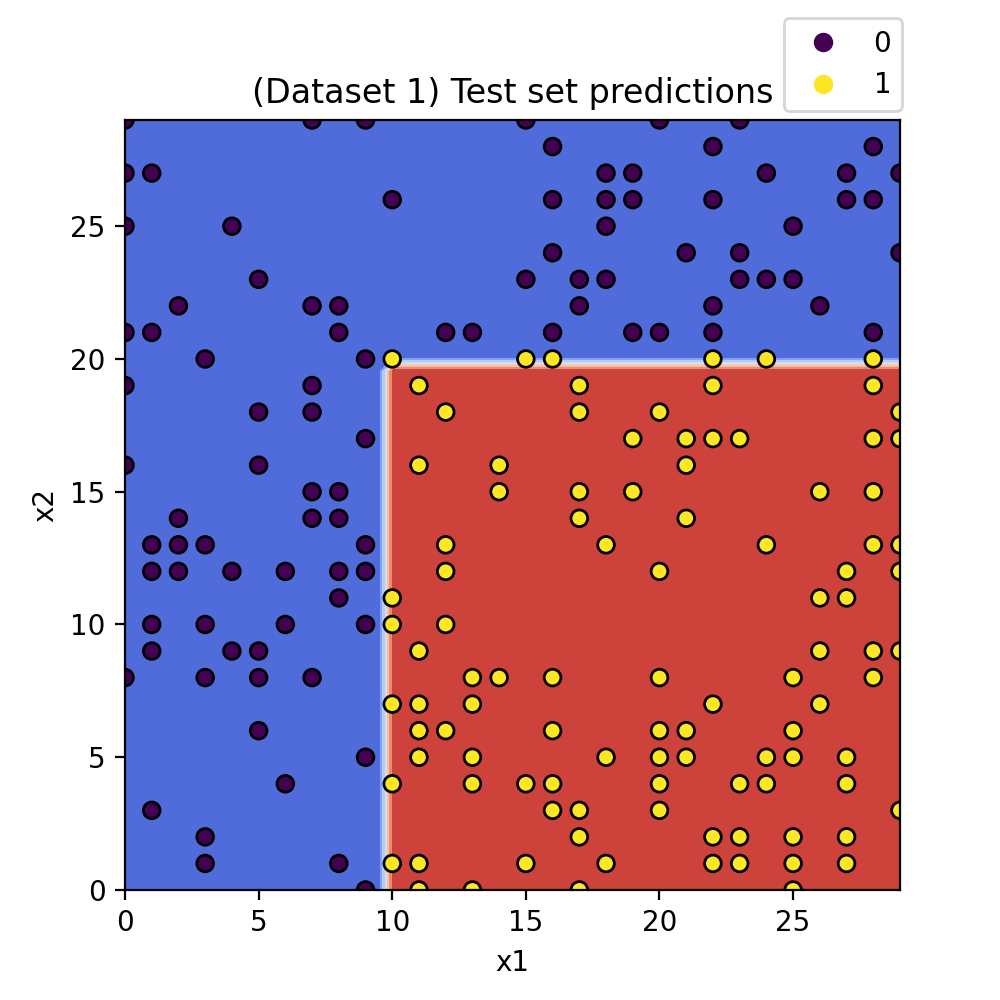
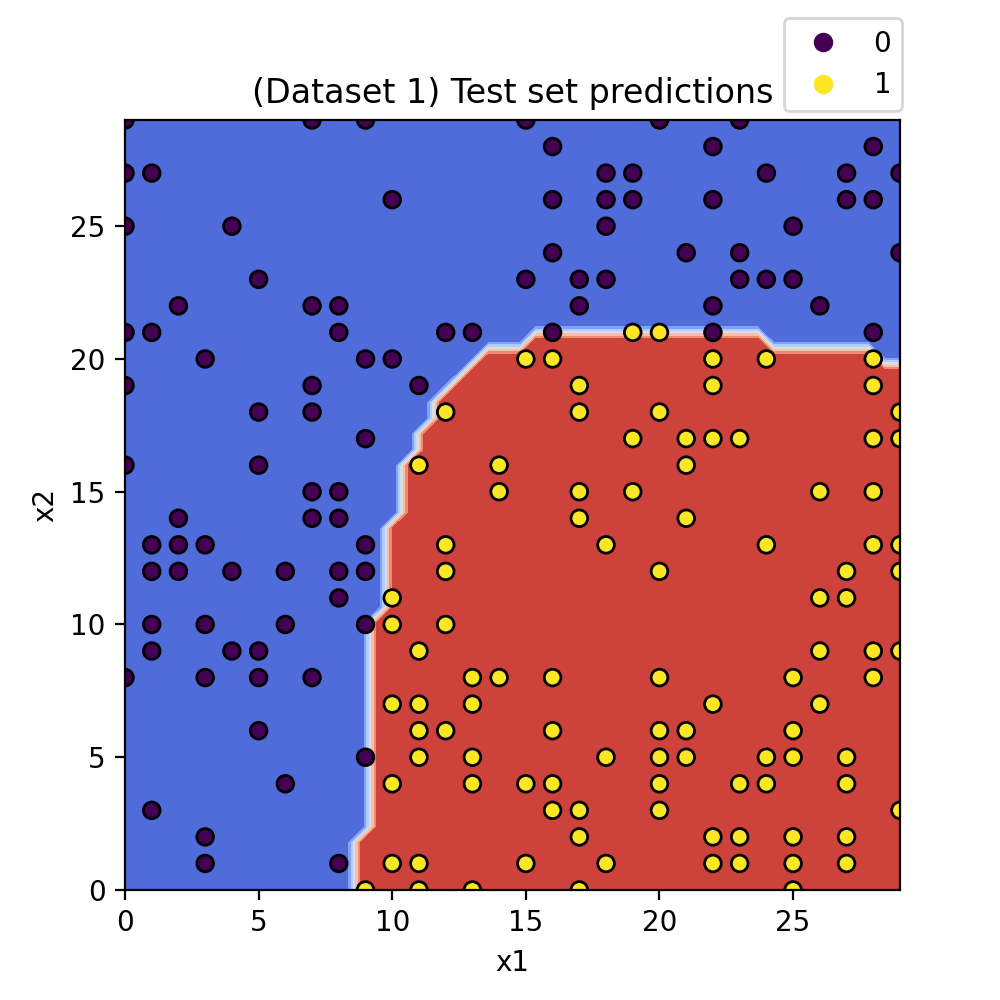
changed design matrix X in logistic_regression.py

Changed region(s): [[0.372, 0.31, 0.868, 0.527], [0.341, 0.589, 0.403, 0.899]]

diff --git a/A1_code_skeleton/logistic_regression.py b/A1_code_skeleton/logistic_regression.py
@@ -8,9 +8,13 @@ def create_design_matrix_dataset_1(X_data: np.ndarray) -> np.ndarray:
     :return: Design matrix X
     """
     # TODO: Create the design matrix X for dataset 1
-   
-    additional_features = np.column_stack(((X_data[:, 0] >= 10).astype(float), (X_data[:, 1] <= 20).astype(float)))
 
+    additional_features = np.column_stack(
+        ((X_data[:,0]*X_data[:,0]),
+        (X_data[:,0]*X_data[:,1]),
+        (X_data[:,1]*X_data[:,0]))
+    )
+    
     X = np.concatenate((X_data, additional_features), axis=1)
 
     assert X.shape[0] == X_data.shape[0], """The number of rows in the design matrix X should be the same as

diff --git a/A1_code_skeleton/main.py b/A1_code_skeleton/main.py
@@ -271,10 +271,10 @@ def task_3(initial_plot=True):
 def main():
     np.random.seed(46)
 
-    task_1(use_linalg_formulation=False)
-    task_1(use_linalg_formulation=True)
+    #task_1(use_linalg_formulation=False)
+    #task_1(use_linalg_formulation=True)
     task_2()
-    task_3(initial_plot=True)
+    #task_3(initial_plot=True)
 
 
 if __name__ == '__main__':

diff --git a/A1_code_skeleton/plot_utils.py b/A1_code_skeleton/plot_utils.py
@@ -144,7 +144,7 @@ def plot_logistic_regression(logreg_model, create_design_matrix, X,
     # make sure a "plots" directory exists!
     plt.savefig(f'plots/{figname}.pdf')
     plt.savefig(f'plots/{figname}.png')
-    #plt.show()
+    plt.show()
 
 
 def plot_datapoints(X: np.ndarray, y: np.ndarray, title: str) -> None:
